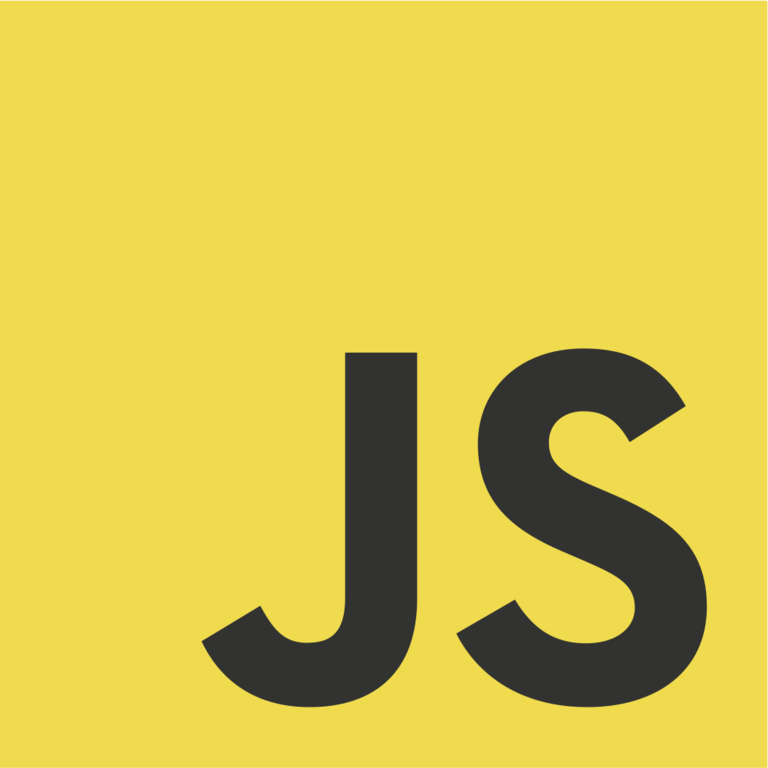
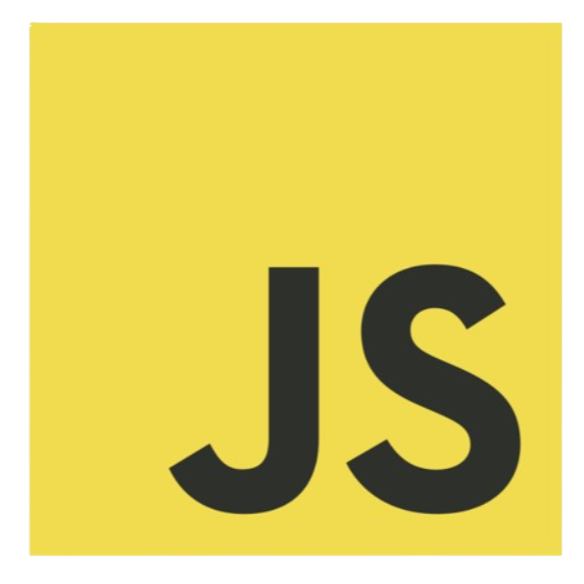
Update, Last for 1/8/2025 - Added programming languages images - Planning skills box - Aiming to complete tomorrow

diff --git a/frontend/src/components/SkillsBox.jsx b/frontend/src/components/SkillsBox.jsx
@@ -1,6 +1,9 @@
-import { Spacer, Text, VStack, useColorModeValue, HStack, Flex, Modal, useDisclosure, ModalOverlay, ModalContent, ModalHeader, ModalCloseButton, ModalBody, ModalFooter, Image} from "@chakra-ui/react";
+import { Spacer, Text, VStack, useColorModeValue, HStack, Flex, Modal, useDisclosure, ModalOverlay, ModalContent, ModalHeader, ModalCloseButton, ModalBody, ModalFooter, Image, SimpleGrid} from "@chakra-ui/react";
 
 import { FiArrowUpRight } from "react-icons/fi";
+import { BsThreeDots } from "react-icons/bs";
+
+
 
 
 const SkillsBox = () => {
@@ -16,6 +19,20 @@ const SkillsBox = () => {
         color:useColorModeValue('white', 'black')
     };
 
+    const modalImage = {
+        boxSize:'14',
+        borderRadius:4,
+    }
+
+    const imageSources = [
+        "/python.png",
+        "/JavaScript.png",
+        "/c.png",
+        "/c++.png",
+        "/html.png",
+        "/css.png",
+    ];
+    
     return(
         <>
             <VStack
@@ -87,7 +104,9 @@ const SkillsBox = () => {
                                         h={'30%'}
                                         bg={useColorModeValue("#90caf9","#474973")}
                                         >
-                                            hi
+                                            <VStack w={'100%'} h={'100%'} justifyContent={'center'} spacing={'8'}>
+                                                <Text>Relvant Coursework</Text>
+                                            </VStack>
                                         </Flex>
                                         <Flex
                                         {...modalBox}
@@ -95,7 +114,25 @@ const SkillsBox = () => {
                                         h={'70%'}
                                         bg={useColorModeValue("blue.500","#474973")}
                                         >
-                                            hi2
+                                            <VStack w={'100%'} h={'100%'} justifyContent={'center'} alignItems={'center'}>
+                                                <Text
+                                                h={'10%'}
+                                                >Programming Languages</Text>
+                                                <SimpleGrid w={'100%'}  h={'70%'} columns={4} spacing={5}>
+                                                {imageSources.map((src) => (
+                                                <Flex key={src} justifyContent={'center'} alignItems={'center'}>
+                                                    <Image {...modalImage} src={src} />
+                                                </Flex>
+                                            ))}
+                                                <Flex 
+                                                justifyContent={'center'} 
+                                                alignItems={'center'
+                                                }
+                                                >
+                                                    <BsThreeDots  size={'2rem'}/>
+                                                </Flex>
+                                                </SimpleGrid>
+                                            </VStack>
                                         </Flex>
                                     </VStack>
 
@@ -108,14 +145,7 @@ const SkillsBox = () => {
                                         bg={useColorModeValue("blue.300","#474973")}
                                         >
                                         <HStack spacing={5} w={'100%'} justifyContent={'center'}>
-                                            <Image 
-                                            boxSize={12}
-                                            src={'/GitHub.png'}
-                                            />
-                                            <Image 
-                                            boxSize={12}
-                                            src={'/GitHub.png'}
-                                            />
+                                            <Text>Development Tools</Text>
                                         </HStack>
                                         </Flex>
 
@@ -125,7 +155,7 @@ const SkillsBox = () => {
                                         h={'33%'}
                                         bg={useColorModeValue("#90caf9","#474973")}
                                         >
-                                            hi2
+                                            Frameworks
                                         </Flex>
 
                                         <Flex
@@ -135,6 +165,7 @@ const SkillsBox = () => {
                                         bg={useColorModeValue("blue.100","#474973")}
                                         >
 
+                                            <Text>Operating Systems</Text>
 
                                         </Flex>
                                     </VStack>
